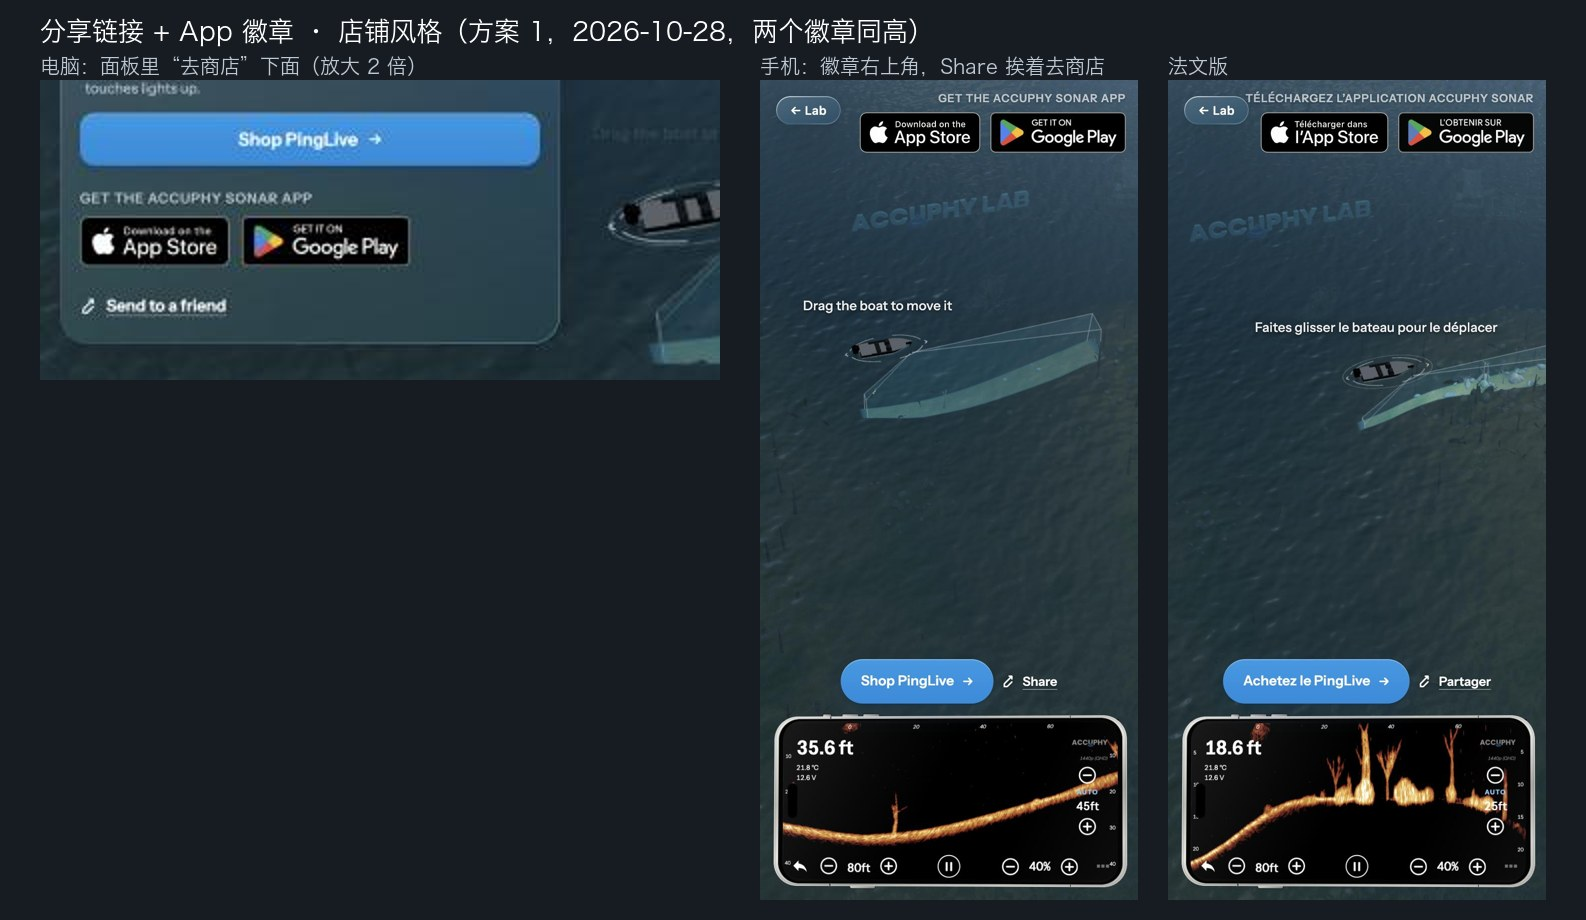
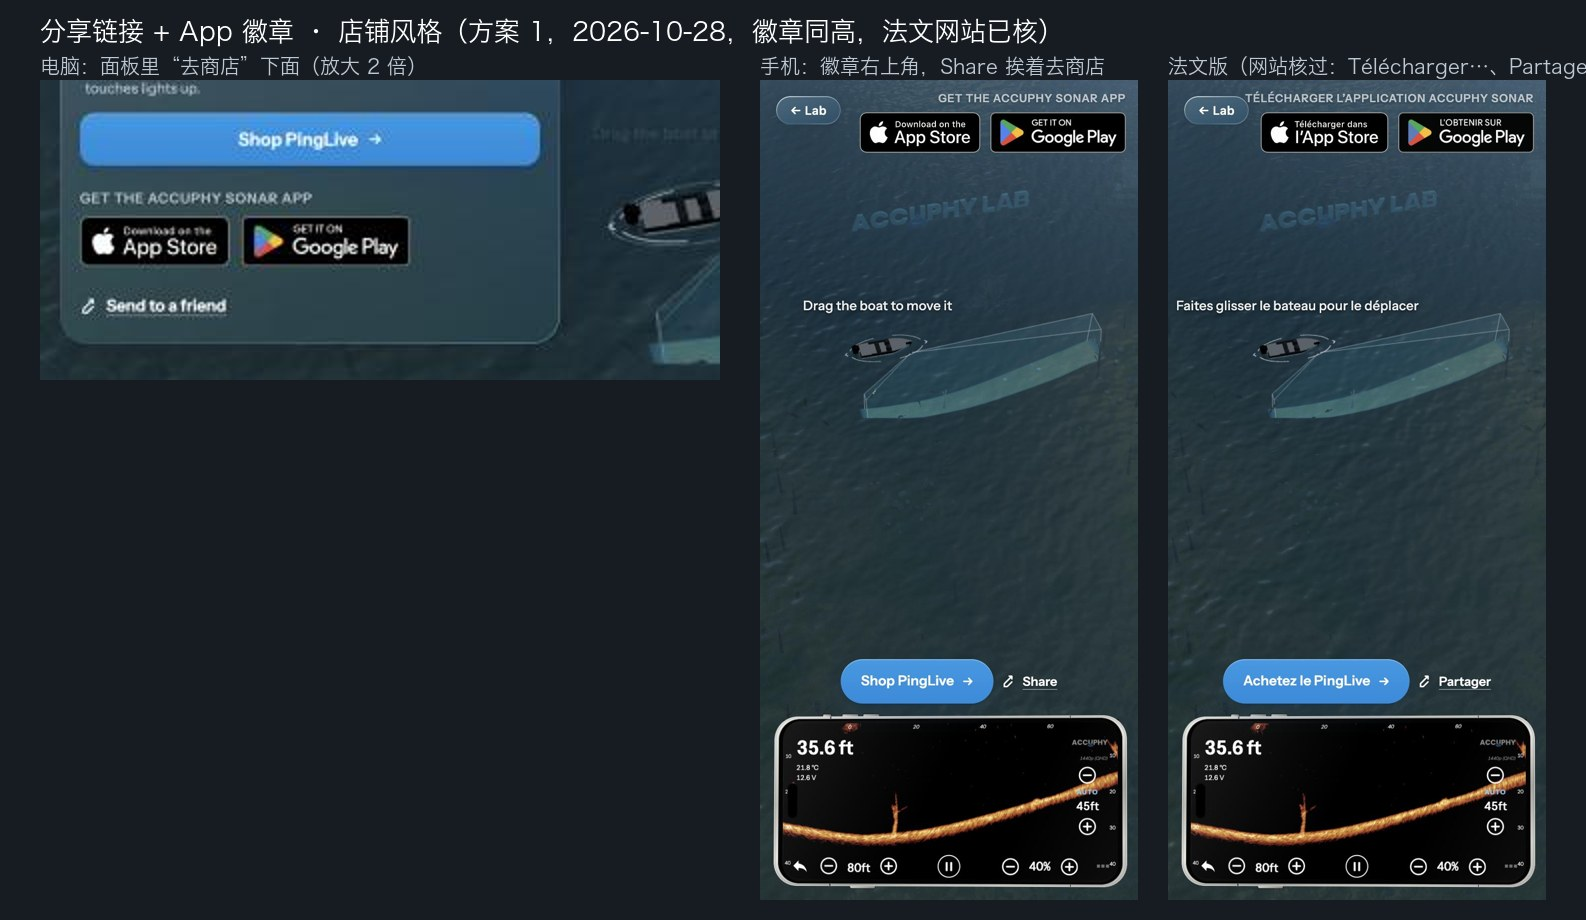
Share + badges French as reviewed by the website (#198): Télécharger l’application Accuphy Sonar, Partager everywhere; sheet updated (#186)

diff --git a/src/experiments/2026-09-23-sonar-lake-3d/i18n.js b/src/experiments/2026-09-23-sonar-lake-3d/i18n.js
@@ -52,13 +52,13 @@ const S = {
   gl_lost_title: { en: 'The 3D view stopped', fr: 'La vue 3D s’est arrêtée' },
   gl_lost_text: { en: 'Your browser freed the graphics memory. Tap to reload the lake.', fr: 'Votre navigateur a libéré la mémoire graphique. Touchez pour recharger le lac.' },
   // "Send to a friend" (BF funnel item 1)
-  share: { en: 'Send to a friend', fr: 'Envoyer à un ami' },
+  share: { en: 'Send to a friend', fr: 'Partager' }, // FR reviewed by the website HQ 2026-10-28 (#198): "Partager" everywhere, no longer sentence
   share_text: { en: 'Try the Accuphy Lab — drag a boat and watch the live sonar light up.', fr: 'Essayez l’Accuphy Lab : déplacez un bateau et regardez le sondeur live s’allumer.' },
   share_sms: { en: 'Text message', fr: 'Message texte' },
   share_copy: { en: 'Copy link', fr: 'Copier le lien' },
   share_copied: { en: 'Link copied', fr: 'Lien copié' },
-  share_short: { en: 'Share', fr: 'Partager' }, // the phone dock beside the Shop pill: no room for the long label
-  get_app: { en: 'Get the Accuphy Sonar app', fr: 'Téléchargez l’application Accuphy Sonar' }, // the caption over the store badges (Jason 2026-10-28; the badges themselves say "Download on the App Store" / "Get it on Google Play"). FR FOR THE WEBSITE HQ'S REVIEW
+  share_short: { en: 'Share', fr: 'Partager' }, // the phone dock beside the Shop pill: no room for the long label (FR passes, #198)
+  get_app: { en: 'Get the Accuphy Sonar app', fr: 'Télécharger l’application Accuphy Sonar' }, // the caption over the store badges (Jason 2026-10-28; the badges themselves say "Download on the App Store" / "Get it on Google Play"). FR reviewed by the website HQ 2026-10-28 (#198): the infinitive, as the store's /fr footer
   // the Shop button
   shop: { en: 'Shop {name}', fr: 'Achetez le {name}' }, // after the store's own "Achetez maintenant →" (shop.accuphy.com/fr); the arrow is the button's icon
   shop_opening: { en: 'Opening the store…', fr: 'Ouverture de la boutique…' }, // shown for the 1 s before the page leaves (website #228). FR drafted from the glossary (boutique = the store) — FOR THE WEBSITE HQ'S REVIEW

diff --git a/docs/decisions.md b/docs/decisions.md
@@ -3225,3 +3225,5 @@ Numbered log. Newest at the bottom.
      - HQ's check (2026-10-28): Google's PNG carries its own transparent margin, so at the same box height its badge looked
        smaller than Apple's. The two PNGs are cropped to their visible shape (en 564×168, fr 646×192), so at 40 px both badges
        are the same height; Google asks for equal size side by side. Sheet redone.
+     - The website's French review (#198, 2026-10-28): the caption is "Télécharger l’application Accuphy Sonar" (the infinitive,
+       as the store's /fr footer); "Partager" passes and is the French for every share spot, "Send to a friend" included.
